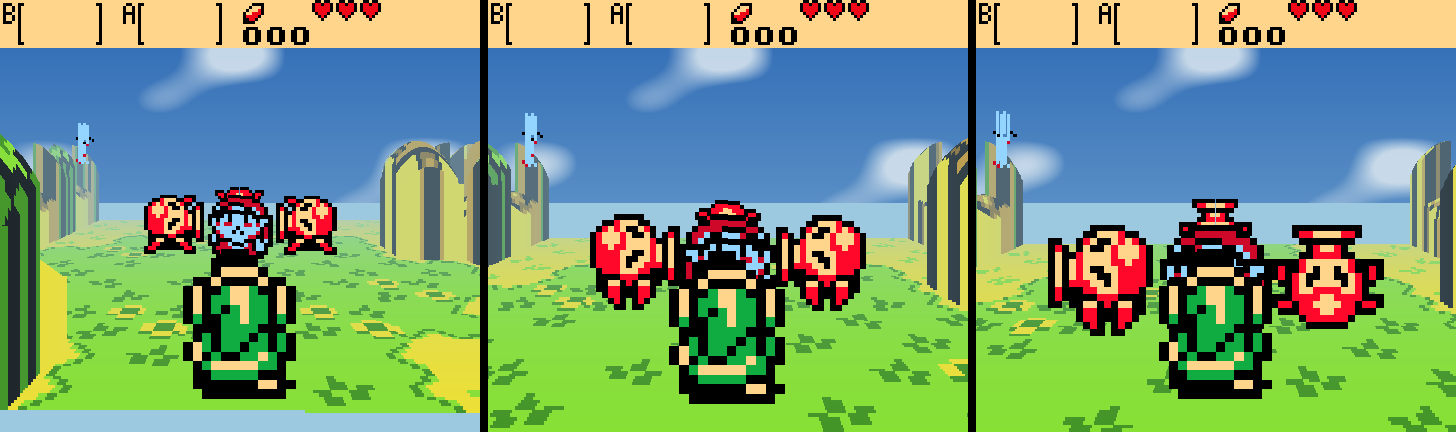
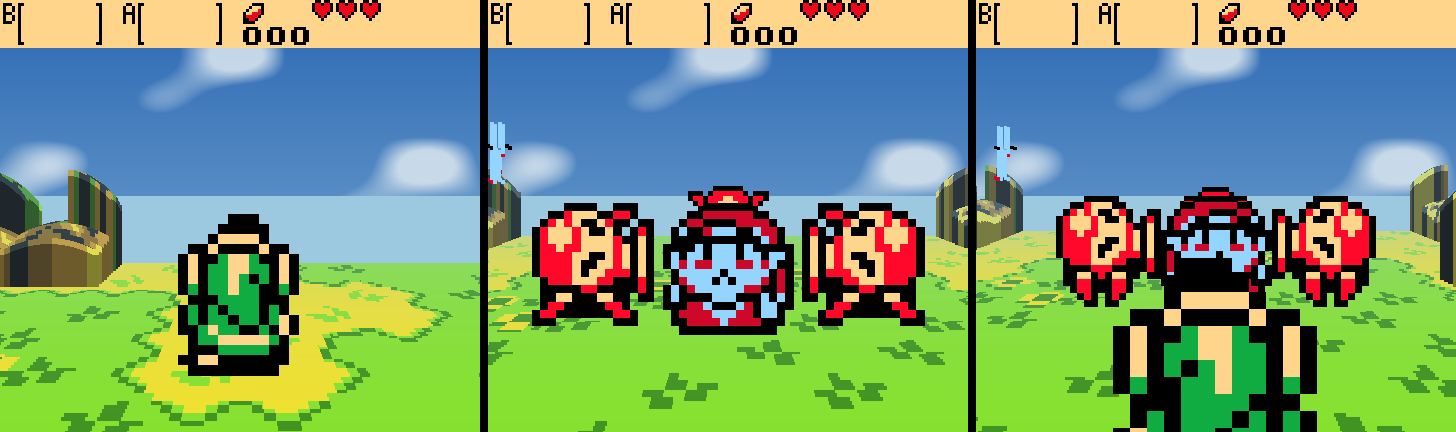
Chase cam v2: camera on the stick, unified characters, shaded faces
Live-play verdict on v1 was 'clunky, camera not good', with video
evidence: the camera swung through empty space on every d-pad tap,
characters split into twins with depth, and tall cells streaked into
wavy pillars. All four causes fixed:

- The camera is on the stick, not the d-pad. Auto-following Link's
  4-way facing is gone; yaw belongs to the right stick (or Q/E on
  keyboard) and holds steady otherwise. Camera position eases toward
  its anchor so whole-pixel steps glide.

- Adjacent 8px OAM entries at the same y are one character. Runs are
  grouped and drawn as single billboards, farthest first, so Link is
  one figure at every distance instead of two halves drifting apart.

- Risers get a shaded front face below a thin lit rim, so cliffs and
  tree lines read as forms instead of vertical texture streaks.

- The world is squatter (3.2px per height unit, camera lower), which
  reads much closer to the reference mods.

README hero shot regenerated from v2.

Claude-Session: https://claude.ai/code/session_01XEpJisF9zsRiy31aAWP8eC

diff --git a/src/voxel/voxel_render.c b/src/voxel/voxel_render.c
@@ -186,6 +186,8 @@ static void vox_paint_sky(int kind, uint32_t* out, int S) {
 /* chase camera                                                        */
 /* ------------------------------------------------------------------ */
 
+static inline int top_rim(int S) { return 2 * S; }
+
 static inline uint32_t chase_tex_at(const VoxTileGrid* grid, float x, float y) {
     int px = (int)(x + (float)grid->fine_x);
     int py = (int)(y + (float)grid->fine_y);
@@ -206,7 +208,7 @@ static void render_chase(GBContext* ctx, const VoxTileGrid* grid,
     const int OW = GB_SCREEN_WIDTH * S;
     const int OH = GB_SCREEN_HEIGHT * S;
     const int world_top = grid->hud_rows;
-    const float HPX = 5.0f;             /* vertical px per height unit */
+    const float HPX = 3.2f;             /* vertical px per height unit */
     const float FAR = 230.0f;
 
     /* Sky first; the ground overwrites what it owns. */
@@ -225,23 +227,43 @@ static void render_chase(GBContext* ctx, const VoxTileGrid* grid,
     float lx = grid->link_known ? (float)grid->link_sx : 80.0f;
     float ly = grid->link_known ? (float)grid->link_feet_sy : 104.0f;
 
-    /* Yaw eases toward the player's facing, so 4-way turns sweep the
-     * camera around instead of snapping it. */
+    /* The camera is on the stick, not on the d-pad: auto-following Link's
+     * 4-way facing swung the world around on every tap, which played as
+     * chaos. Yaw is yours -- right stick, or Q/E on the keyboard -- and
+     * holds steady otherwise. Default: behind Link, looking north. */
     static float yaw = -1.5708f;
-    static const float DIR_YAW[4] = {-1.5708f, 0.0f, 1.5708f, 3.14159f};
-    float target = DIR_YAW[grid->link_known ? (grid->link_dir & 3) : 0];
-    float diff = target - yaw;
-    while (diff > 3.14159f) diff -= 6.28318f;
-    while (diff < -3.14159f) diff += 6.28318f;
-    yaw += diff * 0.12f;
+#ifdef GB_HAS_SDL2
+    {
+        float turn = 0.0f;
+        const Uint8* keys = SDL_GetKeyboardState(NULL);
+        if (keys) {
+            if (keys[SDL_SCANCODE_Q]) turn -= 1.0f;
+            if (keys[SDL_SCANCODE_E]) turn += 1.0f;
+        }
+        SDL_GameController* pad = SDL_GameControllerFromPlayerIndex(0);
+        if (pad) {
+            Sint16 ax = SDL_GameControllerGetAxis(pad, SDL_CONTROLLER_AXIS_RIGHTX);
+            if (ax > 6000 || ax < -6000) turn += (float)ax / 32767.0f;
+        }
+        yaw += turn * 0.055f;
+    }
+#endif
 
     const float fxv = cosf(yaw), fyv = sinf(yaw);
     const float rxv = -fyv, ryv = fxv;      /* screen-space right vector */
 
-    const float BACK = 46.0f;               /* camera behind the player */
-    const float CAMH = 26.0f;               /* and above their ground */
-    float cx = lx - fxv * BACK;
-    float cy = ly - fyv * BACK;
+    const float BACK = 44.0f;               /* camera behind the player */
+    const float CAMH = 22.0f;               /* and above their ground */
+    /* Ease the camera's position so Link's whole-pixel steps (and room
+     * transitions) glide instead of ticking. */
+    static float scx_f = 0.0f, scy_f = 0.0f;
+    static bool cam_live = false;
+    float tx = lx - fxv * BACK;
+    float ty = ly - fyv * BACK;
+    if (!cam_live) { scx_f = tx; scy_f = ty; cam_live = true; }
+    scx_f += (tx - scx_f) * 0.35f;
+    scy_f += (ty - scy_f) * 0.35f;
+    float cx = scx_f, cy = scy_f;
     float cg = height_at(grid, cx, cy);
     if (cg < 0.0f) cg = 0.0f;
     const float cz = cg * HPX + CAMH;
@@ -256,6 +278,7 @@ static void render_chase(GBContext* ctx, const VoxTileGrid* grid,
         float rx = fxv + rxv * ndc;
         float ry = fyv + ryv * ndc;
         int ybuf = OH;
+        float ph = 0.0f;
         for (float d = 8.0f; d < FAR; d += (d < 70.0f ? 0.6f : 1.4f)) {
             float wx2 = cx + rx * d;
             float wy2 = cy + ry * d;
@@ -278,71 +301,115 @@ static void render_chase(GBContext* ctx, const VoxTileGrid* grid,
                 int t = (int)(d * 256.0f / FAR);
                 if (t > 225) t = 225;
                 c = lerp_color(c, fog, t);
+                /* A step up in height means this span is mostly the riser's
+                 * front face: darken it below a thin lit rim, so cliffs and
+                 * tree lines read as forms instead of vertical streaks. */
+                bool face = h > ph + 0.25f;
+                uint32_t cw = face ? shade(c, 148) : c;
+                int rim = top_rim(S);
                 int top = sy < 0 ? 0 : sy;
                 for (int yy = top; yy < ybuf; yy++) {
-                    out[yy * OW + X] = c;
+                    out[yy * OW + X] = (face && yy >= top + rim) ? cw : c;
                 }
                 ybuf = top;
                 if (ybuf <= 0) break;
             }
+            ph = h;
         }
     }
 
-    /* Sprites: farthest first, scaled by depth, standing on their ground. */
-    int order[VOX_MAX_SPRITES];
-    float depth[VOX_MAX_SPRITES];
-    int n = 0;
+    /* Sprites: adjacent 8px OAM entries at the same y are one character,
+     * and drawing the halves as independent billboards let them drift into
+     * twins with depth. Group each horizontal run, then draw runs farthest
+     * first, scaled by depth, standing on their ground. */
+    typedef struct {
+        int members[6];      /* sprite indices, left to right */
+        int n;
+        int x, y, sh;
+        float dep, lat, g;
+    } ChaseRun;
+    ChaseRun runs[VOX_MAX_SPRITES];
+    bool used[VOX_MAX_SPRITES] = {false};
+    int nr = 0;
     for (int i = 0; i < sprites->count; i++) {
+        if (used[i]) continue;
         const VoxSprite* s = &sprites->entries[i];
-        float pxc = (float)(s->x + 4);
-        float pyc = (float)(s->y + (s->tall ? 16 : 8));
-        float dep = (pxc - cx) * fxv + (pyc - cy) * fyv;
-        if (dep < 10.0f || dep > FAR) continue;
-        order[n] = i;
-        depth[n] = dep;
-        n++;
+        /* Find the leftmost member of this run. */
+        int lx0 = s->x;
+        for (bool moved = true; moved;) {
+            moved = false;
+            for (int j = 0; j < sprites->count; j++) {
+                if (!used[j] && sprites->entries[j].y == s->y &&
+                    sprites->entries[j].x == lx0 - 8) {
+                    lx0 -= 8;
+                    moved = true;
+                }
+            }
+        }
+        ChaseRun* r = &runs[nr];
+        r->n = 0;
+        r->x = lx0;
+        r->y = s->y;
+        r->sh = s->tall ? 16 : 8;
+        for (int step = 0; step < 6; step++) {
+            int want = lx0 + step * 8;
+            int found = -1;
+            for (int j = 0; j < sprites->count; j++) {
+                if (!used[j] && sprites->entries[j].y == s->y &&
+                    sprites->entries[j].x == want) { found = j; break; }
+            }
+            if (found < 0) break;
+            used[found] = true;
+            r->members[r->n++] = found;
+        }
+        if (r->n == 0) continue;
+
+        float pxc = (float)r->x + (float)(r->n * 8) * 0.5f;
+        float pyc = (float)(r->y + r->sh);
+        r->dep = (pxc - cx) * fxv + (pyc - cy) * fyv;
+        r->lat = (pxc - cx) * rxv + (pyc - cy) * ryv;
+        if (r->dep < 10.0f || r->dep > FAR) continue;
+        r->g = height_at(grid, pxc, pyc);
+        if (r->g < 0.0f) r->g = 0.0f;
+        nr++;
     }
-    for (int a = 1; a < n; a++) {
-        int oi = order[a];
-        float od = depth[a];
+    for (int a = 1; a < nr; a++) {
+        ChaseRun tmp = runs[a];
         int b = a - 1;
-        while (b >= 0 && depth[b] < od) {
-            order[b + 1] = order[b];
-            depth[b + 1] = depth[b];
+        while (b >= 0 && runs[b].dep < tmp.dep) {
+            runs[b + 1] = runs[b];
             b--;
         }
-        order[b + 1] = oi;
-        depth[b + 1] = od;
+        runs[b + 1] = tmp;
     }
-    for (int k = 0; k < n; k++) {
-        const VoxSprite* s = &sprites->entries[order[k]];
-        float dep = depth[k];
-        int sh = s->tall ? 16 : 8;
-        float pxc = (float)(s->x + 4);
-        float pyc = (float)(s->y + sh);
-        float lat = (pxc - cx) * rxv + (pyc - cy) * ryv;
-        float g = height_at(grid, pxc, pyc);
-        if (g < 0.0f) g = 0.0f;
-        float scale = focal / dep;
-        int cxp = (int)((float)OW * 0.5f + lat / dep * focal);
-        int byp = horizon + (int)((cz - g * HPX) * focal / dep);
-        int w2 = (int)(8.0f * scale / (float)S + 0.5f) * S;
-        int h2 = (int)((float)sh * scale / (float)S + 0.5f) * S;
+    for (int k = 0; k < nr; k++) {
+        const ChaseRun* r = &runs[k];
+        float scale = focal / r->dep;
+        int wgb = r->n * 8;
+        int cxp = (int)((float)OW * 0.5f + r->lat / r->dep * focal);
+        int byp = horizon + (int)((cz - r->g * HPX) * focal / r->dep);
+        int w2 = (int)((float)wgb * scale / (float)S + 0.5f) * S;
+        int h2 = (int)((float)r->sh * scale / (float)S + 0.5f) * S;
         if (w2 < 2 || h2 < 2) continue;
-        for (int row = 0; row < sh; row++) {
-            uint32_t px8[8];
-            vox_decode_sprite_row(ctx, s, row, px8);
-            int y0 = byp - h2 + row * h2 / sh;
-            int y1 = byp - h2 + (row + 1) * h2 / sh;
-            for (int yy = y0; yy < y1; yy++) {
-                if (yy < 0 || yy >= OH) continue;
-                for (int c2 = 0; c2 < 8; c2++) {
-                    if (!px8[c2]) continue;
-                    int x0 = cxp - w2 / 2 + c2 * w2 / 8;
-                    int x1 = cxp - w2 / 2 + (c2 + 1) * w2 / 8;
-                    for (int xx = x0; xx < x1; xx++) {
-                        if (xx < 0 || xx >= OW) continue;
-                        out[yy * OW + xx] = px8[c2];
+        int left = cxp - w2 / 2;
+        for (int m = 0; m < r->n; m++) {
+            const VoxSprite* s = &sprites->entries[r->members[m]];
+            for (int row = 0; row < r->sh; row++) {
+                uint32_t px8[8];
+                vox_decode_sprite_row(ctx, s, row, px8);
+                int y0 = byp - h2 + row * h2 / r->sh;
+                int y1 = byp - h2 + (row + 1) * h2 / r->sh;
+                for (int yy = y0; yy < y1; yy++) {
+                    if (yy < 0 || yy >= OH) continue;
+                    for (int c2 = 0; c2 < 8; c2++) {
+                        if (!px8[c2]) continue;
+                        int gcol = m * 8 + c2;
+                        int x0 = left + gcol * w2 / wgb;
+                        int x1 = left + (gcol + 1) * w2 / wgb;
+                        for (int xx = x0; xx < x1; xx++) {
+                            if (xx < 0 || xx >= OW) continue;
+                            out[yy * OW + xx] = px8[c2];
+                        }
                     }
                 }
             }
